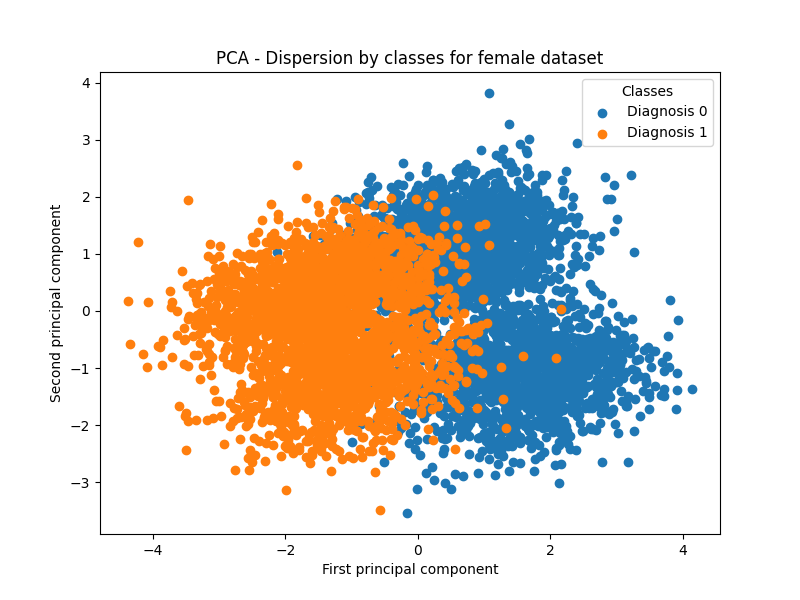
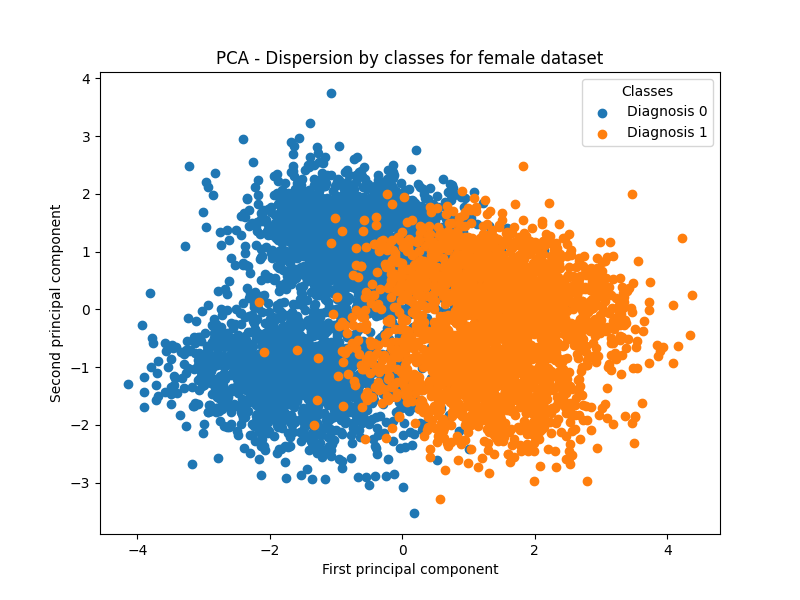
Variaçao do PCA

diff --git a/IntersectionalBias/ECoL/graphics_PCA.py b/IntersectionalBias/ECoL/graphics_PCA.py
@@ -6,11 +6,13 @@ import matplotlib.pyplot as plt
 from sklearn.decomposition import PCA
 from sklearn.preprocessing import StandardScaler
 
-DATASET = 'female'
+DATASET = 'nonWhite'
 
 def createGraphic2D(feature_columns_scaled, target_column):
     pca = PCA(n_components=2)  # Reduce to 2 dimensions
     feature_columns_pca = pca.fit_transform(feature_columns_scaled)
+    print(f"Variância explicada pelas 2 primeiras componentes principais: {pca.explained_variance_ratio_}")
+    print(f"Variância total explicada pelo PCA 2D: {sum(pca.explained_variance_ratio_):.4f}")
 
     # Graphic representation of the PCA 2D
     plt.figure(figsize=(8, 6))
@@ -69,7 +71,7 @@ scaler = StandardScaler()
 feature_columns_scaled = scaler.fit_transform(feature_columns)
 
 createGraphic2D(feature_columns_scaled, target_column)
-createGraphic3D(feature_columns_scaled, target_column)
+#createGraphic3D(feature_columns_scaled, target_column)
 
 
 
